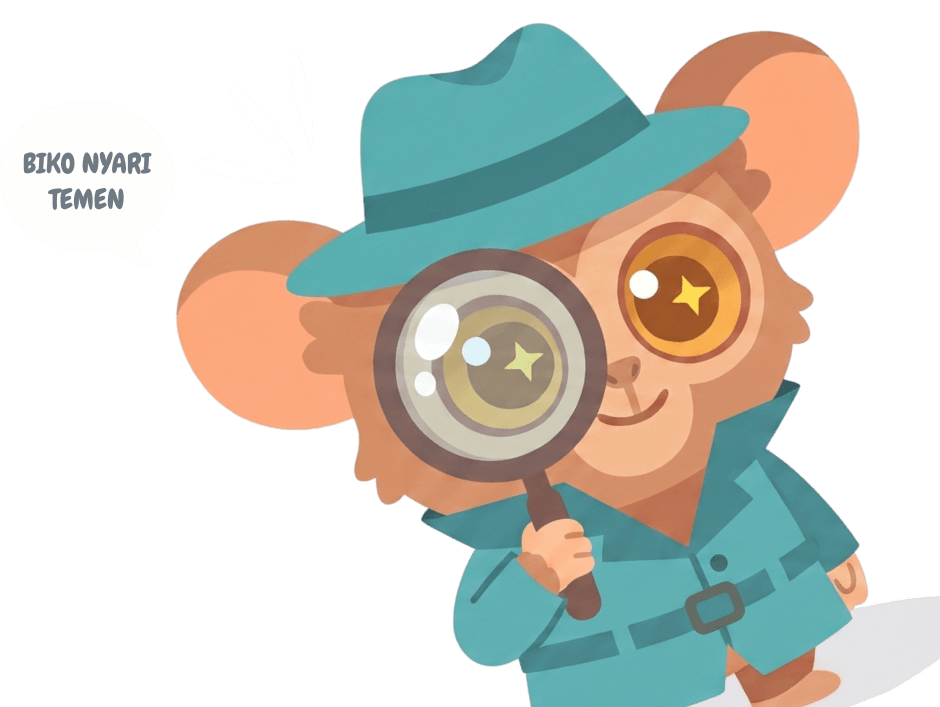
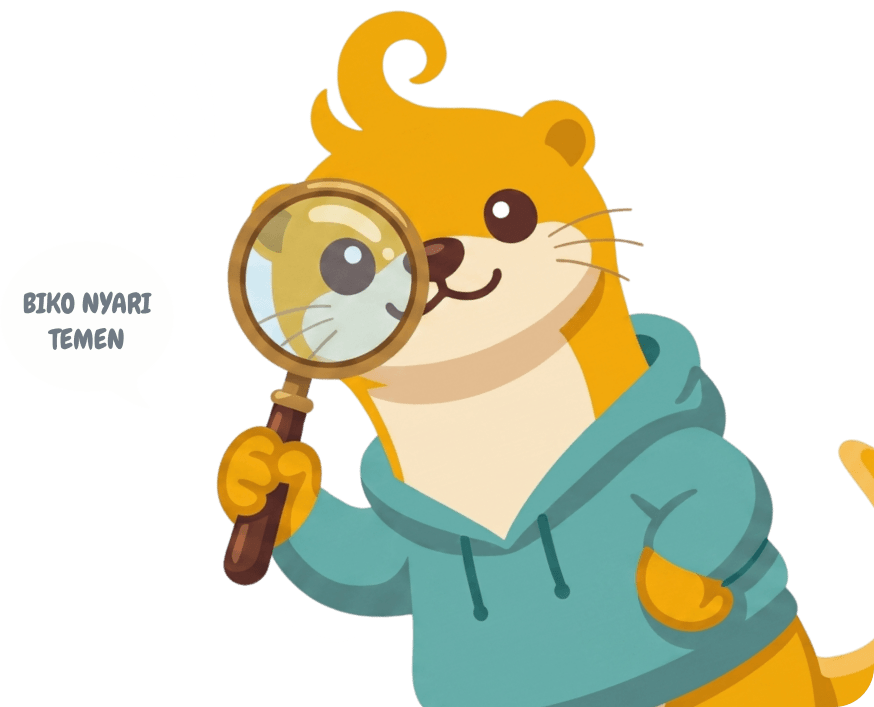
change: update assets

diff --git a/index.html b/index.html
@@ -144,7 +144,7 @@
 
   <!-- ===== HERO ===== -->
   <section
-    class="from-[#FDF4D8] to-[#FFFFFF] bg-gradient-to-b relative px-5 py-[clamp(48px,6vw,80px)] pb-[clamp(56px,7vw,90px)] overflow-hidden">
+    class="from-[#FDF4D8] to-[#FFFFFF] bg-gradient-to-b relative px-5 py-[clamp(48px,6vw,80px)] pb-[100px] overflow-hidden">
     <div aria-hidden="true" class="absolute inset-0 overflow-hidden pointer-events-none">
       <div class="confetti-item confetti-star-1">✦</div>
       <div class="confetti-item confetti-game"><img src="images/bracket.png" alt="" class="confetti-img"></div>
@@ -168,6 +168,13 @@
       <div class="confetti-item code-symbol code-symbol--1" aria-hidden="true">{ }</div>
       <div class="confetti-item code-symbol code-symbol--3" aria-hidden="true">( )</div>
       <div class="confetti-item code-symbol code-symbol--4" aria-hidden="true">##</div>
+
+      <div class="confetti-item text-yellow"
+        style="bottom:27%; right:15%; font-size:54px; animation:floatY 5s ease-in-out infinite;">✦</div>
+      <div class="confetti-item text-green"
+        style="bottom:15%; right:17%; font-size:34px; animation:floatY 5s ease-in-out infinite;">✦</div>
+      <div class="confetti-item text-red"
+        style="bottom:22%; right:15%; font-size:33px; animation:floatY 5s ease-in-out infinite;">✦</div>
     </div>
 
     <div class="flex flex-wrap gap-[clamp(32px,5vw,64px)] items-center relative max-w-[1280px] mx-auto">
@@ -224,17 +231,17 @@
         <div class="relative w-[min(100%,480px)]">
           <img src="images/logika.png" alt="Contoh project coding Scratch"
             class="relative block w-[68%] h-auto -ml-[10%] rounded-2xl z-[1] animate-[bobtilt_5s_ease-in-out_infinite]">
-          <img src="https://image.web.id/images/clipboard-image-1783062204.png" alt="BIKO maskot CODEPOLITAN Junior"
-            class="absolute bottom-[-24%] right-[4%] w-[68%] h-auto z-[2]">
+          <img src="images/hero-img.png" alt="BIKO maskot CODEPOLITAN Junior"
+            class="absolute bottom-[-24%] right-[4%] w-[88%] h-auto z-[2]">
 
           <!-- Speech bubble BIKO -->
           <img src="images/percakapan.png" alt=""
-            class="absolute bottom-[10%] right-[-14%] z-[4] w-[140px] h-auto pointer-events-none animate-[floatY_5s_ease-in-out_infinite] [animation-delay:0.3s]"
+            class="absolute bottom-[40%] right-[-4%] z-[4] w-[140px] h-auto pointer-events-none animate-[floatY_5s_ease-in-out_infinite] [animation-delay:0.3s]"
             aria-hidden="true">
 
           <!-- Card kanan atas -->
           <div
-            class="absolute flex items-center gap-2 bg-[#FBCB4A] border-[#FBCB4A] rounded-full px-[22px] py-[13px] font-body text-[15px] font-bold text-[#3D3D3D] whitespace-nowrap shadow-[3px_3px_0_#d4a520] z-[3] pointer-events-none top-[22%] right-[-2%] animate-[floatY_6s_ease-in-out_infinite] [animation-delay:0.5s]">
+            class="absolute flex items-center gap-2 bg-[#FBCB4A] border-[#FBCB4A] rounded-full px-[22px] py-[13px] font-body text-[15px] font-bold text-[#3D3D3D] whitespace-nowrap shadow-[3px_3px_0_#d4a520] z-[3] pointer-events-none top-[2%] right-[-2%] animate-[floatY_6s_ease-in-out_infinite] [animation-delay:0.5s]">
             <span class="text-base leading-none shrink-0"><i class="fa-solid fa-brain"></i></span>
             <span class="leading-tight">Logika × <i class="fa-solid fa-palette"></i> Kreativitas = <i
                 class="fa-solid fa-rocket"></i> Karya</span>
@@ -284,7 +291,8 @@
                lg:h-full">
 
           <div class="relative mt-[80px]">
-            <img class="relative z-10 w-full h-auto" src="/images/biko-detective.png" alt="Biko Peeking">
+            <img class="relative z-10 w-[80%] h-auto translate-x-[100px] translate-y-0 lg:translate-y-[70px]"
+              src="/images/biko-detective.png" alt="Biko Peeking">
 
             <div class="relative z-20
            bg-[#FFF5DD] rounded-3xl border-2 border-yellow
@@ -369,8 +377,8 @@
         <!-- Left: Ilustrasi utama — menjorok ke section berikutnya -->
         <div
           class="w-full lg:w-[48%] flex justify-center relative z-10 mb-[-70px] lg:mb-[-100px] order-last lg:order-first">
-          <img src="images/dunia-terus-berubah.png" alt="Ilustrasi Biko belajar coding dan AI"
-            class="w-full max-w-[520px] h-auto block">
+          <img src="https://image.web.id/images/clipboard-image-1784005825.png"
+            alt="Ilustrasi Biko belajar coding dan AI" class="w-full max-w-[520px] h-auto block">
         </div>
 
         <!-- Right: Copy -->
@@ -583,7 +591,7 @@
 
       <div class="flex flex-col lg:flex-row gap-5">
         <div class="flex-1">
-          <img class="w-full pointer-events-none" src="https://image.web.id/images/clipboard-image-1783312263.png"
+          <img class="w-full pointer-events-none" src="https://image.web.id/images/clipboard-image-1784005903.png"
             alt="Before">
         </div>
         <div class="flex items-center justify-center rotate-90 lg:rotate-0 my-10">
@@ -591,7 +599,7 @@
             alt="Arrow">
         </div>
         <div class="flex-1">
-          <img class="w-full pointer-events-none" src="https://image.web.id/images/clipboard-image-1783312327.png"
+          <img class="w-full pointer-events-none" src="https://image.web.id/images/clipboard-image-1784005960.png"
             alt="After">
         </div>
       </div>
@@ -905,7 +913,7 @@
       <div class="grid grid-cols-1 lg:grid-cols-3 gap-10">
         <div class="bg-white rounded-3xl border-2 border-dark p-5 shadow-[10px_10px_0_black] min-h-[500px]">
           <div class="relative">
-            <img class="w-full" src="https://image.web.id/images/clipboard-image-1783321635.png" alt="Program 1">
+            <img class="w-full" src="https://image.web.id/images/clipboard-image-1784006024.png" alt="Program 1">
             <span
               class="bg-red rounded-full px-3 py-1 absolute top-[115px] right-[25px] text-lg text-white font-bold">7-8
               Tahun</span>
@@ -926,7 +934,7 @@
 
         <div class="bg-white rounded-3xl border-2 border-dark p-5 shadow-[10px_10px_0_black] min-h-[500px]">
           <div class="relative">
-            <img class="w-full" src="https://image.web.id/images/imagea83db86f39325fcb.png" alt="Program 2">
+            <img class="w-full" src="https://image.web.id/images/clipboard-image-1784006070.png" alt="Program 2">
             <span
               class="bg-yellow rounded-full px-3 py-1 absolute top-[115px] right-[25px] text-lg text-dark font-bold">8-12
               Tahun</span>
@@ -948,7 +956,7 @@
 
         <div class="bg-white rounded-3xl border-2 border-dark p-5 shadow-[10px_10px_0_black] min-h-[500px]">
           <div class="relative">
-            <img class="w-full" src="https://image.web.id/images/image556e6b4d51b45b8b.png" alt="Program 3">
+            <img class="w-full" src="https://image.web.id/images/clipboard-image-1784006102.png" alt="Program 3">
             <span
               class="bg-green rounded-full px-3 py-1 absolute top-[115px] right-[25px] text-lg text-white font-bold">12-15
               Tahun</span>
@@ -1025,8 +1033,8 @@
         <!-- Right: Ilustrasi -->
         <div
           class="relative mb-[-80px] lg:mb-0 me-[-30px] lg:me-0 lg:absolute lg:bottom-0 lg:right-0 w-full lg:w-auto mt-8 lg:mt-0">
-          <img src="https://image.web.id/images/clipboard-image-1783323072.png" alt="CTA"
-            class="w-full max-w-[500px] lg:max-w-[700px] h-auto block mx-auto lg:mx-0">
+          <img src="https://image.web.id/images/clipboard-image-1784006142.png" alt="CTA"
+            class="w-full max-w-[500px] lg:max-w-[800px] h-auto block mx-auto lg:mx-0">
         </div>
       </div>
     </div>